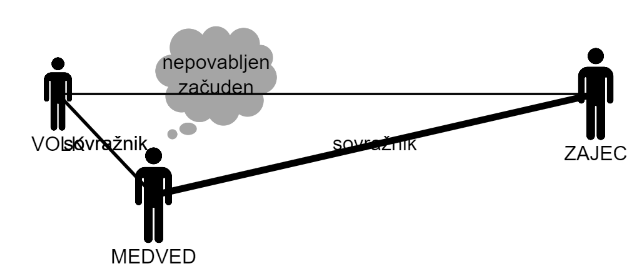
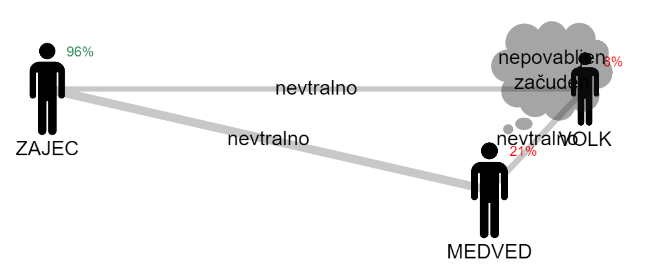
Corrected visualisation and added examples

Changed region(s): [[0.0312, 0.0573, 0.9984, 0.9462]]

diff --git a/visualisation/sketch.js b/visualisation/sketch.js
@@ -19,7 +19,7 @@ let secondFont = 'Arial';
 let bubbleSize = 100;
 
 function preload() {
-    title = 'Zlata_ptica'
+    title = 'Ko_bi_bilo_vedno_tako'
     let charactersTable = loadTable('./data/characters/' + title + '.csv', 'csv', () => {
         for(let i = 0; i < charactersTable.getRowCount(); i++) {
             characters.push(charactersTable.getString(i,0));
@@ -78,6 +78,12 @@ function draw() {
         let minY = char1;
         if (characterCoordinates[char1][0] > characterCoordinates[char2][0]) minX = char2;
         if (characterCoordinates[char1][1] > characterCoordinates[char2][1]) minY = char2;
+        let text_x = characterCoordinates[minX][0];
+        let text_y = characterCoordinates[minY][1];
+        let text_width = Math.abs(characterCoordinates[char1][0] - characterCoordinates[char2][0]);
+        if (text_width < 50) {text_width = 50; text_x = text_x - 25;}
+        let text_height = Math.abs(characterCoordinates[char1][1] - characterCoordinates[char2][1]);
+        if (text_height < 20) {text_height = 20; text_y = text_y - 10;}
 
         stroke(200);
         if (type > 1) {rel = "zaveznik";stroke(100, 255, 100, 100 - 100*Math.abs(type_normalised));}
@@ -93,7 +99,7 @@ function draw() {
         //rotate(lineAngle);
         textAlign(CENTER, CENTER);
         //translate(lineCenterX,lineCenterY);
-        text(rel, characterCoordinates[minX][0], characterCoordinates[minY][1], Math.abs(characterCoordinates[char1][0] - characterCoordinates[char2][0]), Math.abs(characterCoordinates[char1][1] - characterCoordinates[char2][1]))
+        text(rel, text_x, text_y, text_width, text_height)
         //text(rel, 300, 300, 500, 500);
         //text(rel, lineCenterX, lineCenterY, 300, 30);
         //text(rel, characterCoordinates[char1][0], characterCoordinates[char1][1]-8, lineLength, 16);
